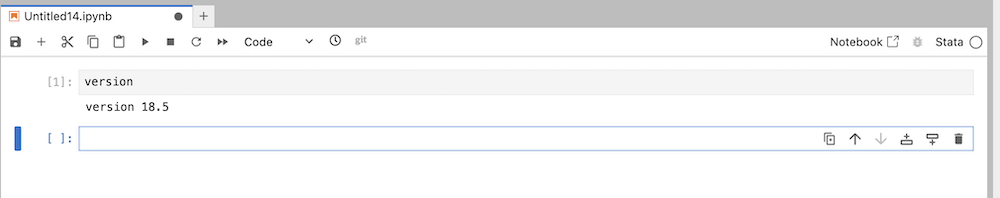
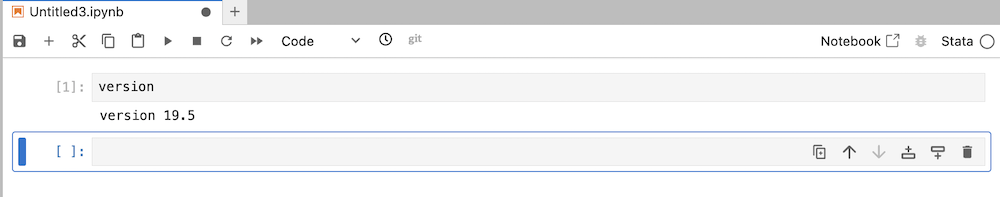
adding a script and one-liner stata kernel install

Changed region(s): [[0.0, 0.0, 1.0, 1.0], [0.031, 0.3959, 0.155, 0.4873]]

diff --git a/docs/_getting_started/jupyter.md b/docs/_getting_started/jupyter.md
@@ -136,35 +136,19 @@ Threads.nthreads()
 The output of `Threads.nthreads()` should be equal to the number of threads you used to create the kernel.
 
 #### Stata
-* Load Stata module:
+* Install Stata kernel by running this command from a terminal:
+```title="Terminal Command"
+install_stata_kernel
+```
 
-    ```title="Terminal Command"
-    ml statamp/18
+    If everything worked, you should see:
+    ```{ .yaml .no-copy title="Terminal Output" }
+    Configuring Stata kernel...
+    Installation complete!
+    Launch JupyterHub and select Stata notebook
     ```
-
-* Make a new Python `venv` environment, install Stata kernel, and add it to Jupyter:
-
-    ```title="Terminal Commands"
-    /usr/bin/python3 -m venv stata_kernel 
-    source stata_kernel/bin/activate
-    pip install stata_kernel jupyter 
-    python -m stata_kernel.install
-    ```
-
-* Before you test JupyterHub, check that the Stata kernel is using the correct Stata executable.  
-
-    ```title="Terminal Command"
-    cat ~/.stata_kernel.conf
-    ```
-    After you type the above in your terminal, you should see:
-
-    ```{.stata .yaml .no-copy title="Terminal Output"}
-
-    [stata_kernel]
-    
-    stata_path = /software/non-free/stata18/stata-mp
-    ```
-    If you don't see `stata_path = /software/non-free/stata18/stata-mp`, or it goes to a different path, edit the `.stata_kernel.conf` file so that it points to the path listed above.
+    The install script adds a Stata/19 kernel to JupyterHub. 
+ 
     
 * Start JupyterHub.
     
